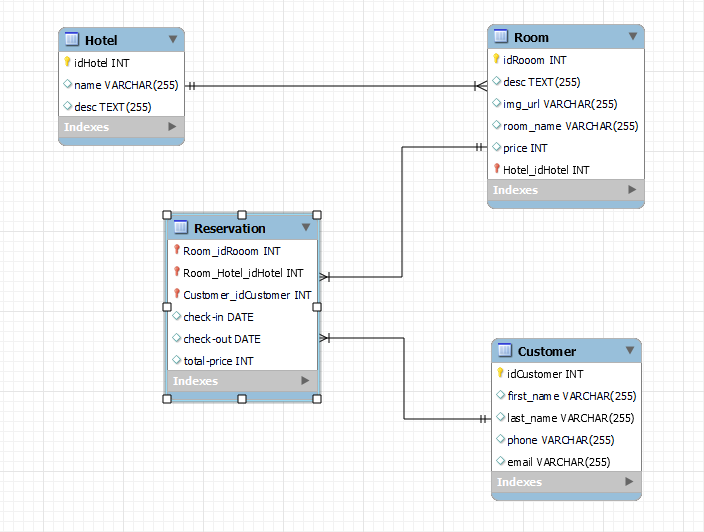
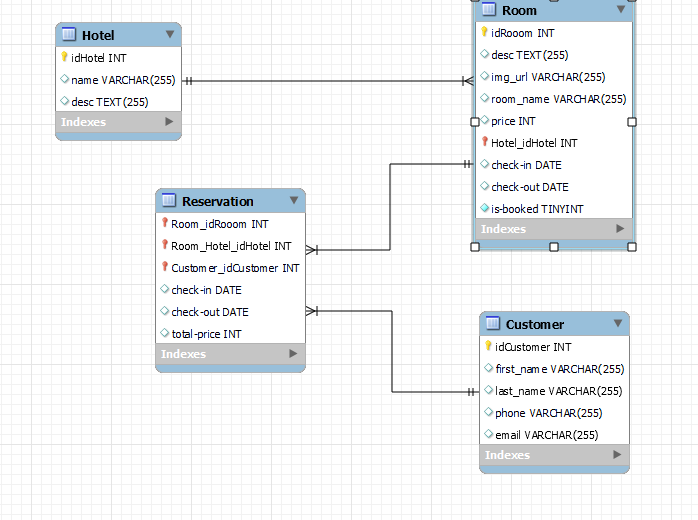
add file

Changed region(s): [[0.0602, 0.0, 0.9327, 0.7692], [0.5415, 0.5846, 0.9327, 0.9538]]

diff --git a/dreamshotelapp/appdreams/models.py b/dreamshotelapp/appdreams/models.py
@@ -21,6 +21,9 @@ class Room(models.Model):
     room_name=models.CharField(max_length=255)
     price=models.IntegerField()
     booking_by=models.ManyToManyField(Customer,through="Reversation")
+    check_in=models.DateField()
+    check_out=models.DateField()
+    is_booked=models.BooleanField()
     hotel=models.ForeignKey(Hotel,related_name="hotelrooms",on_delete=models.CASCADE)
     created_at = models.DateTimeField(auto_now_add=True)
     updated_at = models.DateTimeField(auto_now=True)
